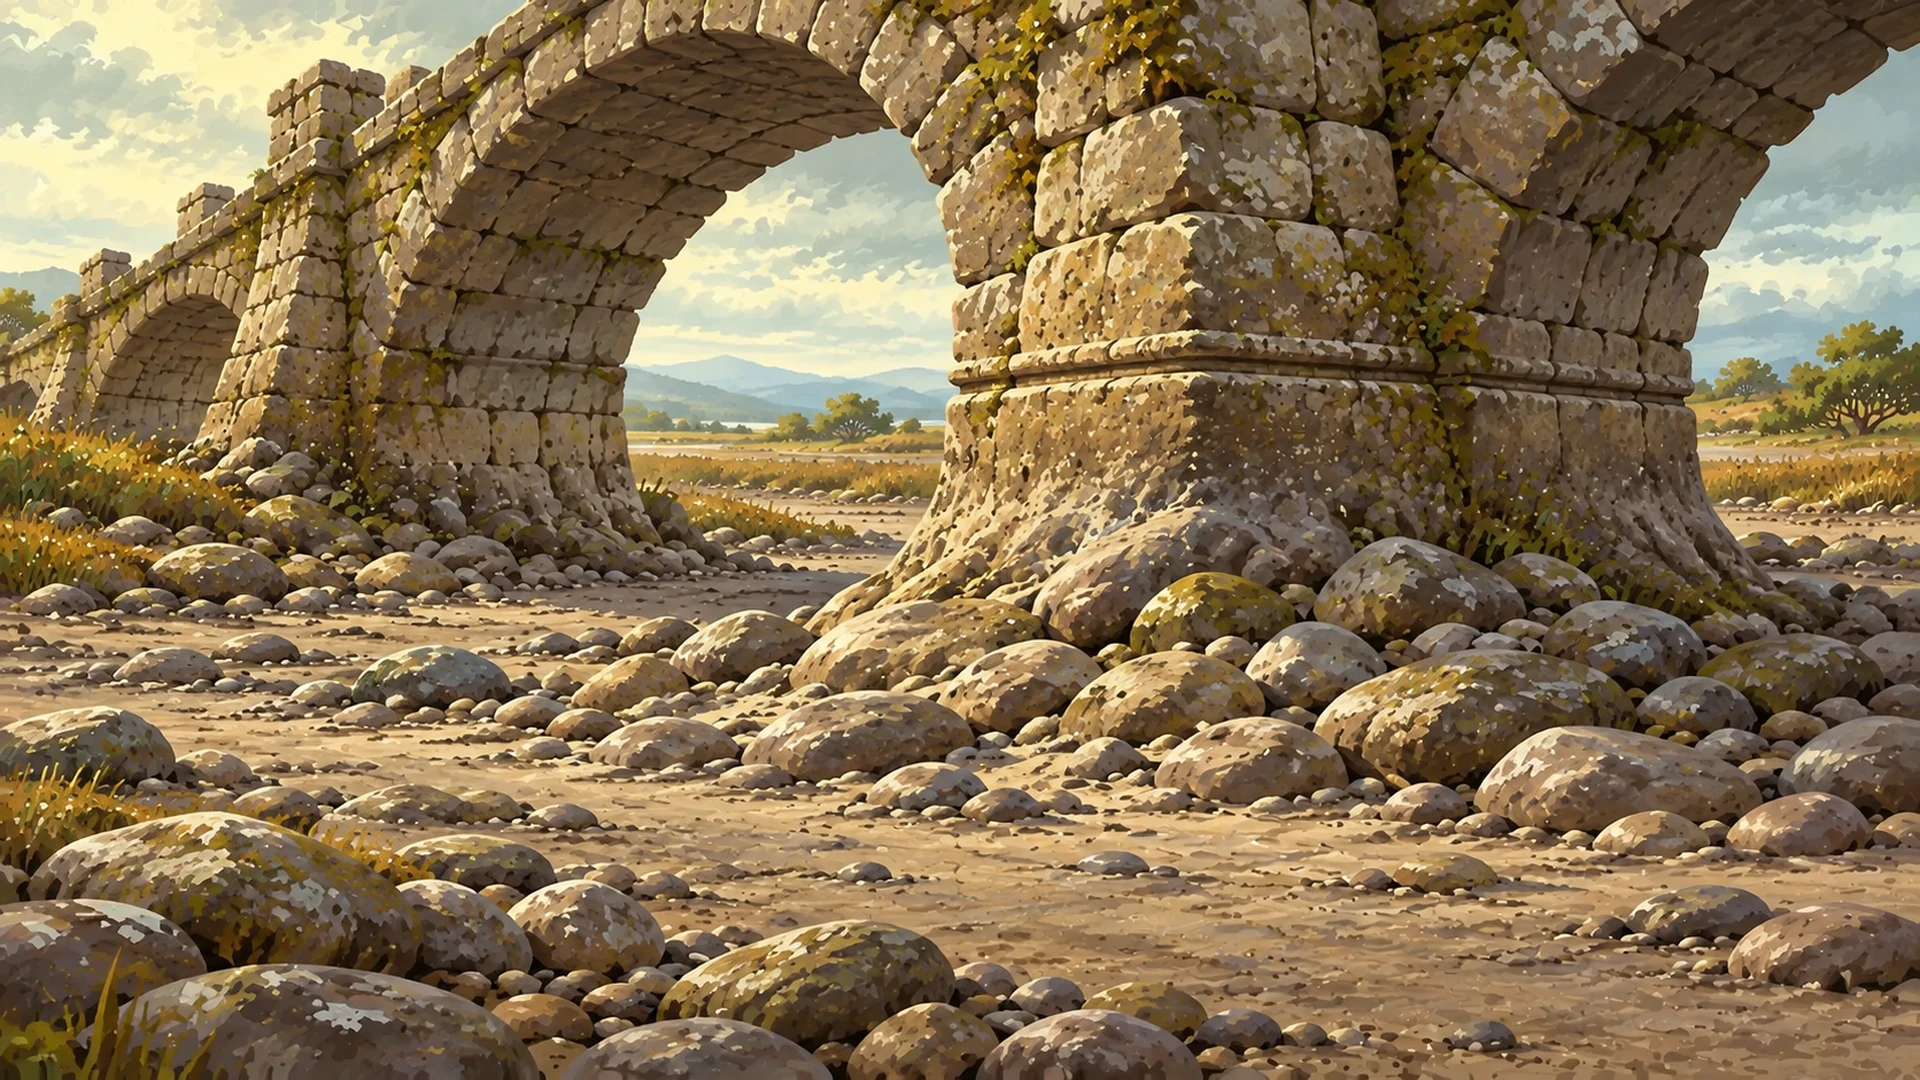
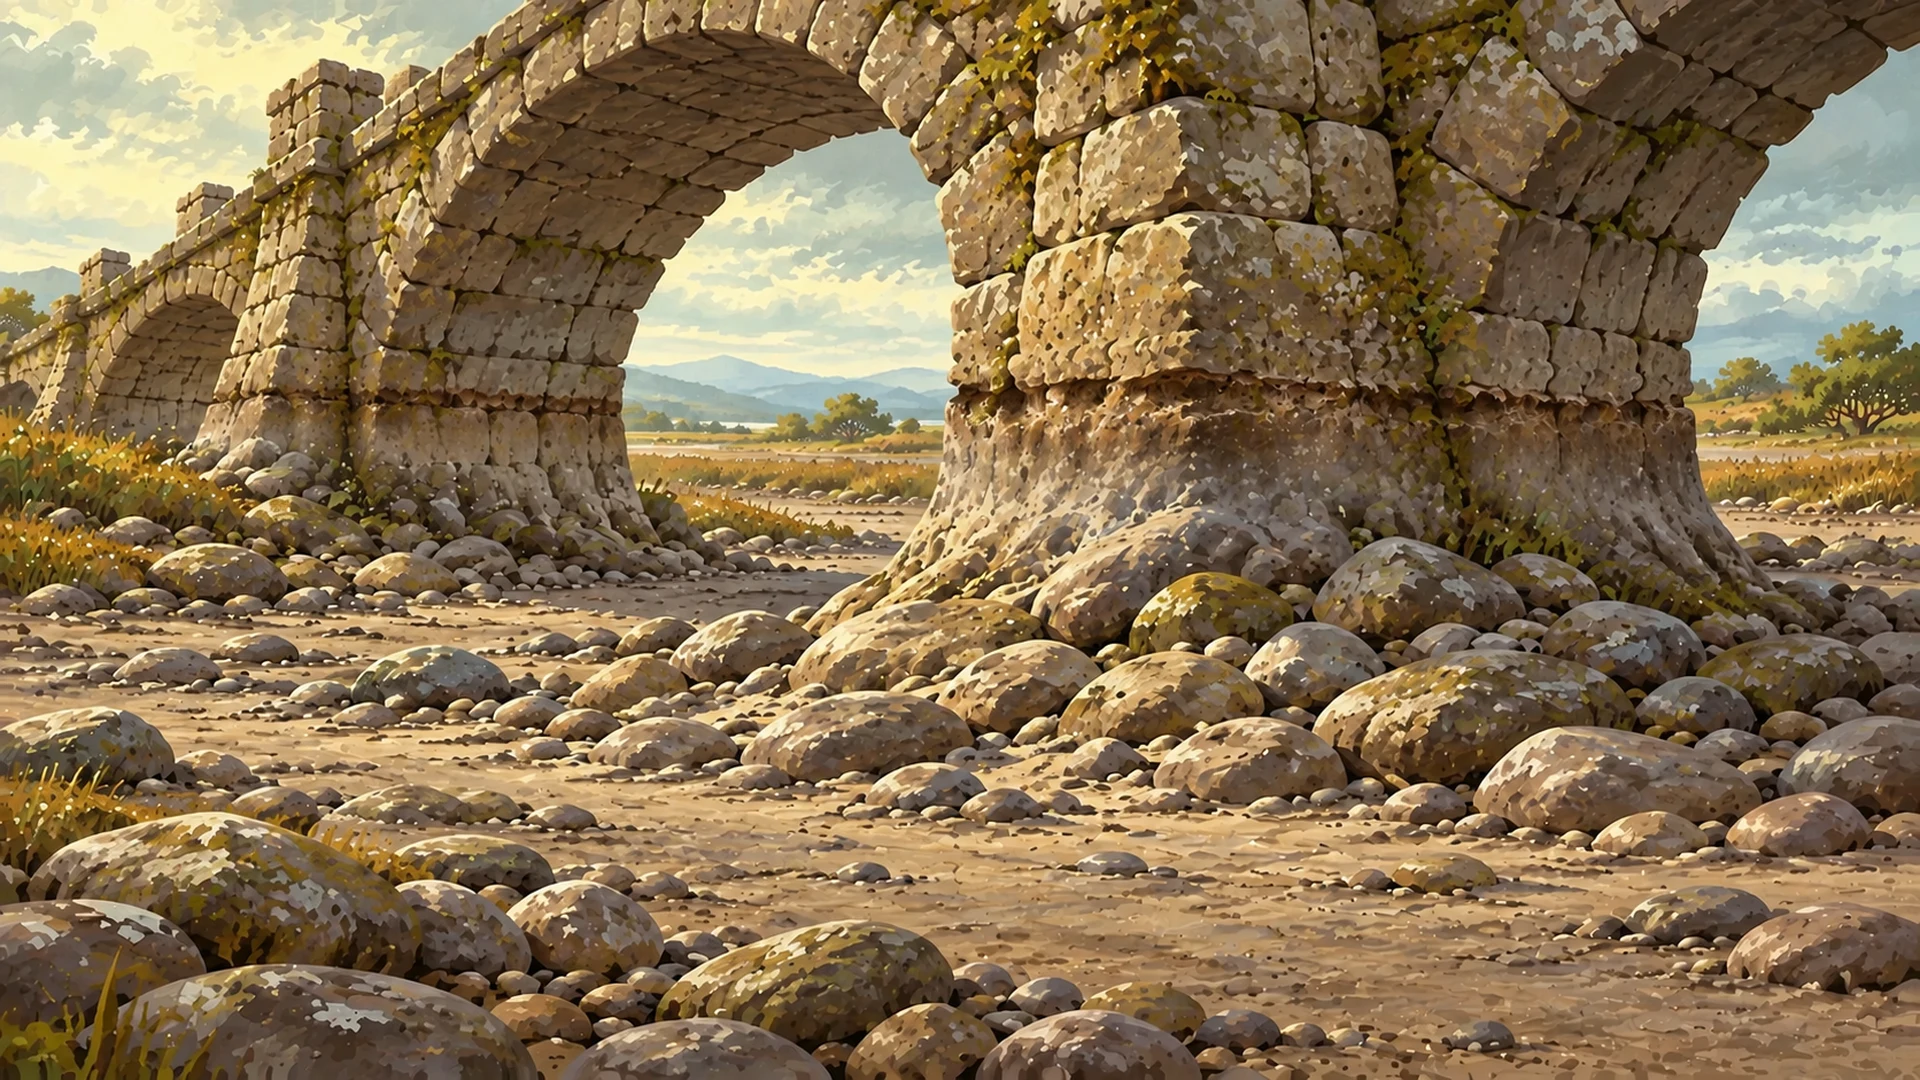
Clarify chipped counting stroke and weathered bridge waterline

diff --git a/art/source/riftlight/scenes/evidence-generation.md b/art/source/riftlight/scenes/evidence-generation.md
@@ -1,5 +1,32 @@
 # Riftlight evidence and aftermath illustrations
 
+
+## Focused evidence revisions — PR #326 review, 2026-10-19
+
+Generated with the built-in `image_gen` edit tool. The prior runtime illustrations are the edit targets. Original source PNGs remain available; revised final sources use the `-v2.png` suffix. Runtime paths stay unchanged. Story flow and the approved whale aftermath are unchanged.
+
+### stone-counters-evidence
+
+Edit target: `assets/scenes/riftlight/stone-counters-evidence.webp`
+
+Revised source: `art/source/riftlight/scenes/stone-counters-evidence-v2.png`
+
+Final revision prompt:
+
+Edit this exact illustration to fix ONLY the counting marks below the carved volcano. Preserve the volcano, slates, landscapes, composition, warm light and hand-painted storybook style. ERASE the entire existing group of three separated side-by-side counting slots beneath the volcano. Replace that group with ONLY ONE single broad vertical incised counting stroke in the center of that lower stone panel. This ONE groove must have two collinear segments: its upper and lower segments lie on EXACTLY THE SAME vertical axis, SAME width, and their sides visibly align. A jagged rough diagonal chipped fracture cuts across its MIDDLE, removing a short section of the groove and leaving a shallow raw-stone crater. The top and bottom lengths must therefore look plausibly like one originally continuous stroke broken across the middle, while the missing middle also allows a viewer to count two short segments. Emphasize rough flaked edges and a fresh lighter-colored stone chip surface IN THE GAP, with subtle contiguous hairline fractures extending sideways from it. Make this large and readable from across a TV room. It must NOT be two intact parallel strokes or two unrelated slots beside each other. No other counting slots anywhere below the volcano. The chalk sketches may remain exactly as they are. No digits, labels, runes, words or solution indicators. Change no other element.
+
+### buried-bridge-evidence
+
+Edit target: `assets/scenes/riftlight/buried-bridge-evidence.webp`
+
+Revised source: `art/source/riftlight/scenes/buried-bridge-evidence-v2.png`
+
+Final revision prompt:
+
+Edit this exact bridge close-up to fix ONLY the waterline evidence. Preserve the stone arches, pier proportions, dry rounded river pebbles, pale silt, landscape, lighting, framing and painterly style. REMOVE the neat raised doubled architectural band/cornice wrapping around the central pier: make that part plain irregular stone masonry with no protruding trim. Instead create a visibly OLD WATER-EROSION MARK across the LOWER HALF of the central pier, clearly BELOW where the cornice was, roughly one third of the pier height above the dry pebbles. This mark must be RECESSED into the masonry: a shallow irregular horizontal erosion notch with pitted/scalloped edges that cuts across individual stones and their joints, gently varying in thickness, never a raised ledge or tidy decorative course. Add an uneven muted brown-gray mineral stain at the former water level and visibly smoother rounded water-worn stone BELOW it, contrasting with rough dry masonry ABOVE. Continue this same irregular worn-water mark at the matching elevation on the next pier to the left, making its natural shared water level understandable. NO water, puddles, glows, arrows, labels, words, diagrams or UI. Keep all the existing dry rounded river pebbles. No doorway or new lore. The worn notch and staining should be unmistakably different from decorative architecture and legible at TV size.
+
+## Initial generation record
+
 Generated with the built-in `image_gen` tool on 2026-10-19. Original generated PNGs are retained here; runtime assets are 1920×1080 WebP, quality 88. Existing establishing illustrations are preserved.
 
 ## stone-counters-evidence
